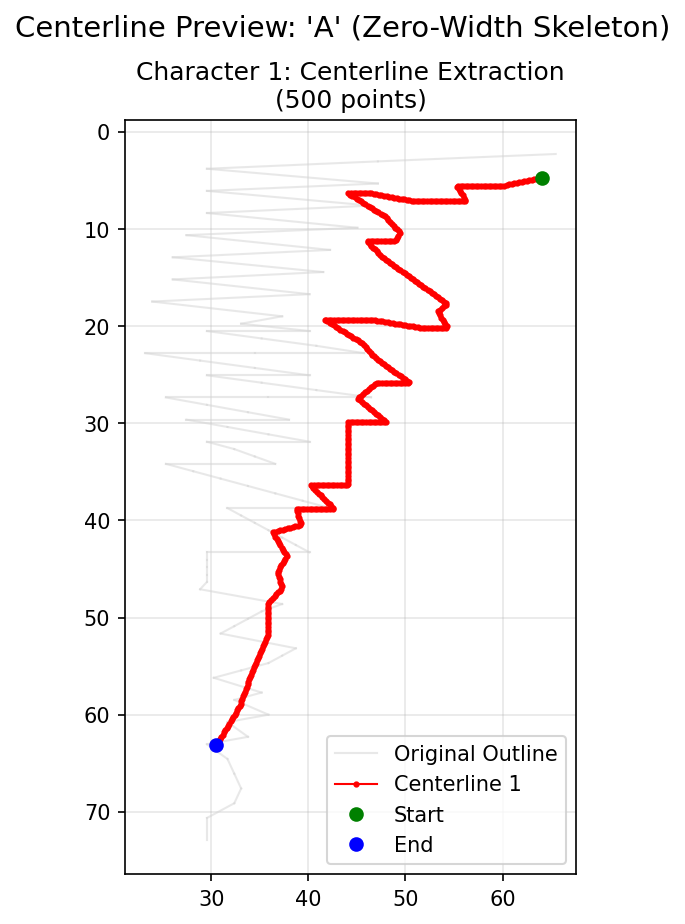
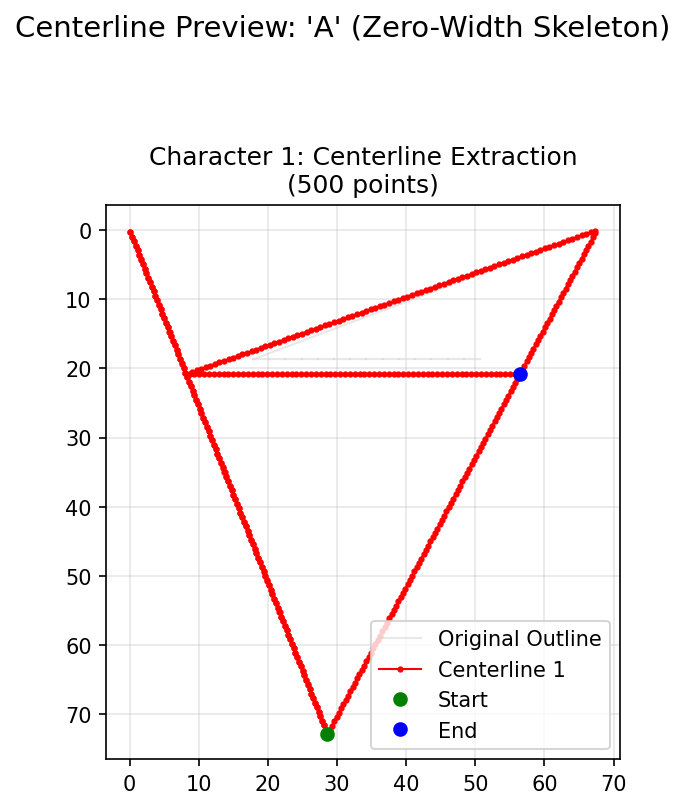
save

diff --git a/test_geometric.py b/test_geometric.py
@@ -1,20 +1,29 @@
 #!/usr/bin/env python3
 """
-Quick test of the new geometric stroke extraction approach
+Quick test of the new structural stroke extraction approach
 """
 
 import sys
 import os
 sys.path.append(os.path.join(os.path.dirname(__file__), 'src'))
 
-from text_extractor import TextExtractor
-import matplotlib
-matplotlib.use('Agg')  # Non-interactive backend
+try:
+    from text_extractor import TextExtractor
+    import matplotlib
+    matplotlib.use('Agg')  # Non-interactive backend
+    HAS_LIBS = True
+except ImportError as e:
+    print(f"Import error: {e}")
+    HAS_LIBS = False
 
-def test_geometric_extraction():
-    """Test the new geometric approach on letter 'A'"""
+def test_structural_extraction():
+    """Test the new structural approach on letter 'A'"""
     
-    print("=== TESTING GEOMETRIC STROKE EXTRACTION ===")
+    if not HAS_LIBS:
+        print("Required libraries not available, cannot run test")
+        return
+    
+    print("=== TESTING STRUCTURAL STROKE EXTRACTION ===")
     
     extractor = TextExtractor()
     
@@ -22,37 +31,53 @@ def test_geometric_extraction():
     text = "A"
     print(f"\nTesting letter: '{text}'")
     
-    # Get paths
-    paths = extractor.text_to_paths(text, font_size=100)
-    
-    if not paths:
-        print("ERROR: No paths generated!")
-        return
-    
-    path = paths[0]  # First character
-    print(f"Original path has {len(path.vertices)} vertices")
-    
-    # Test the new geometric extraction
     try:
-        skeleton_points = extractor.extract_skeleton_from_path(path)
-        print(f"Geometric extraction produced {len(skeleton_points)} points")
+        # Get paths
+        paths = extractor.text_to_paths(text, font_size=100)
         
-        # Show first few points
-        if len(skeleton_points) > 0:
-            print(f"First 5 points: {skeleton_points[:5]}")
+        if not paths:
+            print("ERROR: No paths generated!")
+            return
+        
+        path = paths[0]  # First character
+        print(f"Original path has {len(path.vertices)} vertices")
+        
+        # Test the key point detection
+        vertices = path.vertices
+        key_points = extractor.find_letter_key_points(vertices)
+        print(f"Key points found: {len(key_points)}")
+        
+        for i, point in enumerate(key_points):
+            print(f"  Point {i+1}: ({point[0]:.1f}, {point[1]:.1f})")
+        
+        # Test stroke creation
+        if len(key_points) >= 3:
+            strokes = extractor.create_structural_strokes(key_points)
+            print(f"Structural strokes created: {len(strokes)}")
             
-            # Check if points form reasonable strokes
-            if len(skeleton_points) > 20:
-                print("SUCCESS: Generated sufficient points for letter structure")
-            else:
-                print("WARNING: Very few points generated")
+            for i, stroke in enumerate(strokes):
+                start = stroke['start']
+                end = stroke['end']
+                stroke_type = stroke['type']
+                length = ((end[0]-start[0])**2 + (end[1]-start[1])**2)**0.5
+                print(f"  Stroke {i+1} ({stroke_type}): ({start[0]:.1f},{start[1]:.1f}) -> ({end[0]:.1f},{end[1]:.1f}) [length: {length:.1f}]")
+        
+        # Test full skeleton extraction
+        skeleton_points = extractor.extract_skeleton_from_path(path)
+        print(f"Final skeleton: {len(skeleton_points)} points")
+        
+        if len(skeleton_points) > 0:
+            print("SUCCESS: Structural extraction completed!")
+            
+            # Show first few points as sample
+            print("Sample points:", skeleton_points[:3].tolist() if len(skeleton_points) >= 3 else skeleton_points.tolist())
         else:
             print("ERROR: No skeleton points generated!")
             
     except Exception as e:
-        print(f"ERROR in geometric extraction: {e}")
+        print(f"ERROR in structural extraction: {e}")
         import traceback
         traceback.print_exc()
 
 if __name__ == "__main__":
-    test_geometric_extraction()
+    test_structural_extraction()
